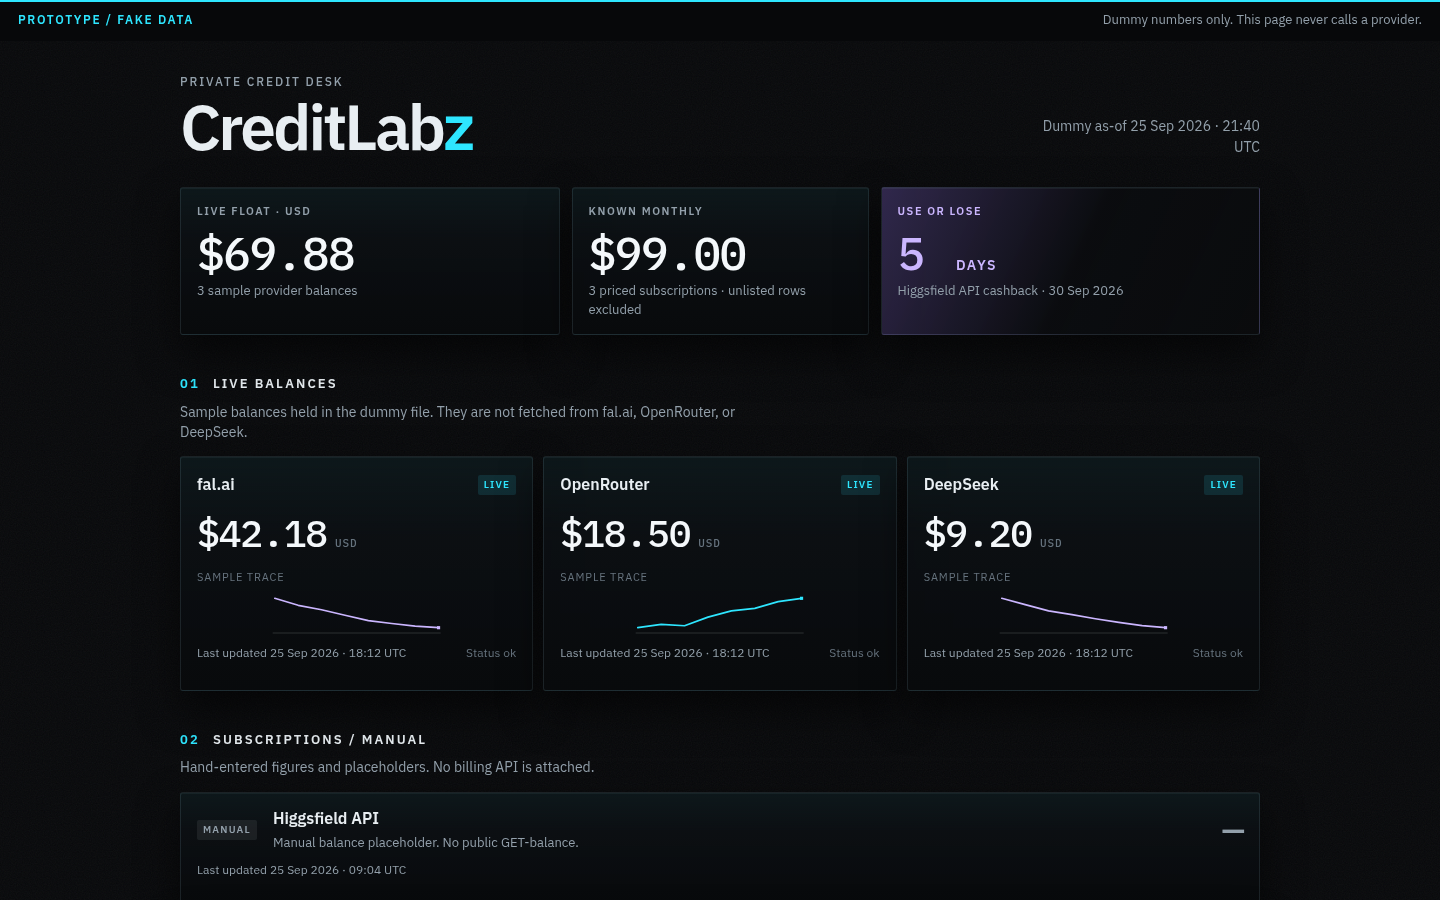
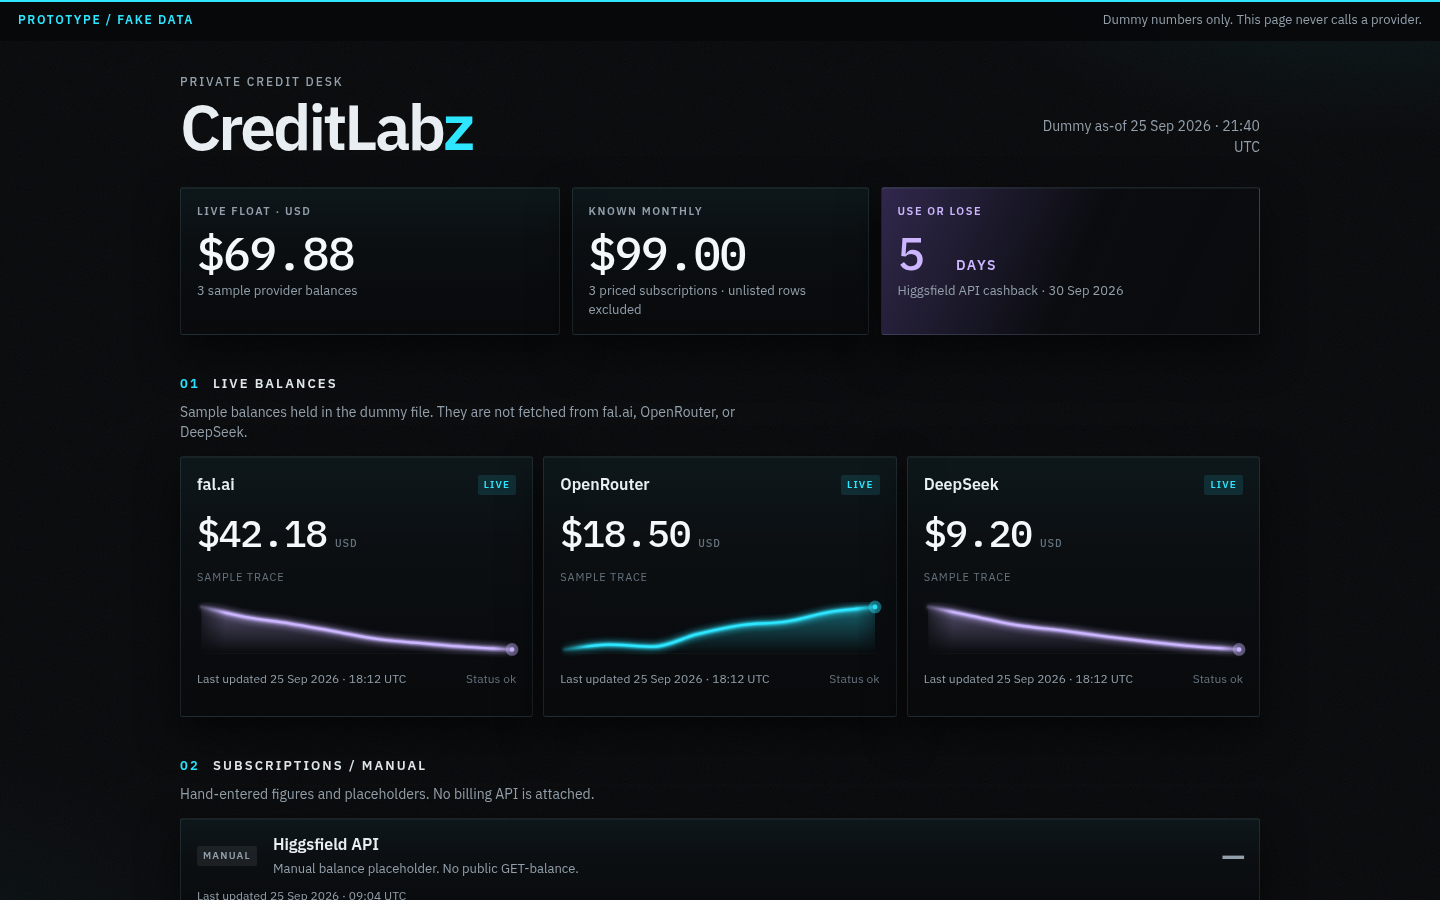
Give sparklines a full-width neon curve.
Replace the flat polyline with a monotone cubic, a soft accent fill, a blurred glow stroke, and an end dot. Up stays cyan and down stays violet, with a unique gradient and filter per card.

Changed region(s): [[0.125, 0.6533, 0.875, 0.7778], [0.125, 0.8089, 0.4062, 1.0], [0.5625, 0.7467, 0.5938, 0.7778]]

diff --git a/js/app.js b/js/app.js
@@ -59,23 +59,78 @@ function countdownBits(days) {
   return { num: String(days), unit: "days" };
 }
 
-function sparkline(values) {
+function smoothLine(points) {
+  const n = points.length;
+  if (n < 2) return "";
+  const fmt = (x, y) => `${x.toFixed(2)} ${y.toFixed(2)}`;
+  if (n === 2) return `M${fmt(points[0][0], points[0][1])} L${fmt(points[1][0], points[1][1])}`;
+
+  const slope = [];
+  const dx = [];
+  for (let i = 0; i < n - 1; i += 1) {
+    const deltaX = points[i + 1][0] - points[i][0] || 1;
+    dx.push(deltaX);
+    slope.push((points[i + 1][1] - points[i][1]) / deltaX);
+  }
+
+  const tangent = new Array(n);
+  tangent[0] = slope[0];
+  tangent[n - 1] = slope[n - 2];
+  for (let i = 1; i < n - 1; i += 1) {
+    tangent[i] = slope[i - 1] * slope[i] <= 0 ? 0 : (slope[i - 1] + slope[i]) / 2;
+  }
+  for (let i = 0; i < n - 1; i += 1) {
+    if (Math.abs(slope[i]) < 1e-6) {
+      tangent[i] = 0;
+      tangent[i + 1] = 0;
+      continue;
+    }
+    const a = tangent[i] / slope[i];
+    const b = tangent[i + 1] / slope[i];
+    const hypot = a * a + b * b;
+    if (hypot > 9) {
+      const scale = 3 / Math.sqrt(hypot);
+      tangent[i] = scale * a * slope[i];
+      tangent[i + 1] = scale * b * slope[i];
+    }
+  }
+
+  let path = `M${fmt(points[0][0], points[0][1])}`;
+  for (let i = 0; i < n - 1; i += 1) {
+    const p0 = points[i];
+    const p1 = points[i + 1];
+    const c1x = p0[0] + dx[i] / 3;
+    const c1y = p0[1] + (tangent[i] * dx[i]) / 3;
+    const c2x = p1[0] - dx[i] / 3;
+    const c2y = p1[1] - (tangent[i + 1] * dx[i]) / 3;
+    path += ` C${fmt(c1x, c1y)} ${fmt(c2x, c2y)} ${fmt(p1[0], p1[1])}`;
+  }
+  return path;
+}
+
+function sparkline(values, id) {
   if (!Array.isArray(values) || values.length < 2) return "";
-  const width = 160;
-  const height = 40;
+  const width = 300;
+  const height = 64;
+  const baselineY = height - 6;
   const min = Math.min(...values);
   const max = Math.max(...values);
   const span = max - min || 1;
+  const plotTop = 14;
+  const plotBottom = baselineY - 4;
   const coords = values.map((value, index) => {
-    const x = (index / (values.length - 1)) * (width - 4) + 2;
-    const y = height - 6 - ((value - min) / span) * (height - 12);
+    const x = (index / (values.length - 1)) * (width - 8) + 4;
+    const y = plotBottom - ((value - min) / span) * (plotBottom - plotTop);
     return [x, y];
   });
-  const path = coords
-    .map((point, index) => `${index === 0 ? "M" : "L"}${point[0].toFixed(2)} ${point[1].toFixed(2)}`)
-    .join(" ");
-  const falling = values[values.length - 1] < values[0];
+  const line = smoothLine(coords);
+  const first = coords[0];
   const last = coords[coords.length - 1];
+  const area = `${line} L${last[0].toFixed(2)} ${baselineY.toFixed(2)} L${first[0].toFixed(2)} ${baselineY.toFixed(2)} Z`;
+  const peakY = Math.min(...coords.map((point) => point[1]));
+  const falling = values[values.length - 1] < values[0];
+  const accent = falling ? "var(--violet)" : "var(--cyan)";
+  const uid = `spark-${String(id || "trace").toLowerCase().replace(/[^a-z0-9]+/g, "-").replace(/^-|-$/g, "") || "trace"}`;
   const trend = falling ? "lower" : "higher or level";
   return `
     <div class="trace">
@@ -84,9 +139,37 @@ function sparkline(values) {
         <span class="sr">Dummy series ends ${trend} than it starts.</span>
       </p>
       <svg class="spark ${falling ? "down" : "up"}" viewBox="0 0 ${width} ${height}" aria-hidden="true" focusable="false">
-        <line class="baseline" x1="0" y1="${height - 1}" x2="${width}" y2="${height - 1}"></line>
-        <path d="${path}"></path>
-        <rect x="${(last[0] - 1.5).toFixed(2)}" y="${(last[1] - 1.5).toFixed(2)}" width="3" height="3"></rect>
+        <defs>
+          <linearGradient id="${uid}-fill" gradientUnits="userSpaceOnUse" x1="0" y1="${peakY.toFixed(2)}" x2="0" y2="${baselineY.toFixed(2)}">
+            <stop offset="0%" stop-color="${accent}" stop-opacity="0.4"></stop>
+            <stop offset="100%" stop-color="${accent}" stop-opacity="0"></stop>
+          </linearGradient>
+          <linearGradient id="${uid}-edge" gradientUnits="userSpaceOnUse" x1="0" y1="0" x2="${width}" y2="0">
+            <stop offset="0%" stop-color="#ffffff" stop-opacity="0.2"></stop>
+            <stop offset="9%" stop-color="#ffffff" stop-opacity="1"></stop>
+            <stop offset="93%" stop-color="#ffffff" stop-opacity="1"></stop>
+            <stop offset="100%" stop-color="#ffffff" stop-opacity="0.45"></stop>
+          </linearGradient>
+          <filter id="${uid}-glow" x="-25%" y="-90%" width="150%" height="280%" color-interpolation-filters="sRGB">
+            <feGaussianBlur in="SourceGraphic" stdDeviation="3.4" result="wide"></feGaussianBlur>
+            <feGaussianBlur in="SourceGraphic" stdDeviation="1.2" result="tight"></feGaussianBlur>
+            <feMerge>
+              <feMergeNode in="wide"></feMergeNode>
+              <feMergeNode in="tight"></feMergeNode>
+            </feMerge>
+          </filter>
+          <mask id="${uid}-mask">
+            <rect width="${width}" height="${height}" fill="url(#${uid}-edge)"></rect>
+          </mask>
+        </defs>
+        <g mask="url(#${uid}-mask)">
+          <line class="baseline" x1="2" y1="${baselineY.toFixed(2)}" x2="${width - 2}" y2="${baselineY.toFixed(2)}"></line>
+          <path class="spark-area" d="${area}" fill="url(#${uid}-fill)"></path>
+          <path class="spark-glow" d="${line}" filter="url(#${uid}-glow)"></path>
+          <path class="spark-line" d="${line}"></path>
+        </g>
+        <circle class="spark-halo" cx="${last[0].toFixed(2)}" cy="${last[1].toFixed(2)}" r="6"></circle>
+        <circle class="spark-dot" cx="${last[0].toFixed(2)}" cy="${last[1].toFixed(2)}" r="2.2"></circle>
       </svg>
     </div>`;
 }
@@ -143,7 +226,7 @@ function renderLive(items) {
     host.innerHTML = '<p class="empty">No dummy live balances.</p>';
     return;
   }
-  host.innerHTML = items.map((item) => `
+  host.innerHTML = items.map((item, index) => `
     <article class="card live-card">
       <div class="card-top">
         <h3 class="service">${esc(item.label)}</h3>
@@ -153,7 +236,7 @@ function renderLive(items) {
         <p class="figure">${esc(formatMoney(item.balance))}</p>
         <span class="currency">${esc(item.currency || "USD")}</span>
       </div>
-      ${sparkline(item.spark)}
+      ${sparkline(item.spark, `${item.id || "trace"}-${index}`)}
       ${updatedLine(item.updated_at, item.status)}
     </article>
   `).join("");

diff --git a/css/styles.css b/css/styles.css
@@ -354,30 +354,45 @@ a.card {
 .spark {
   display: block;
   width: 100%;
-  height: 42px;
+  height: auto;
+  aspect-ratio: 300 / 64;
+  overflow: visible;
 }
 
-.spark path {
+.spark .baseline {
+  stroke: rgba(232, 238, 242, 0.1);
+  stroke-width: 0.5;
+}
+
+.spark-area { stroke: none; }
+
+.spark-glow,
+.spark-line {
   fill: none;
-  stroke-width: 1.6;
   stroke-linejoin: round;
   stroke-linecap: round;
 }
 
-.spark .baseline {
-  stroke: rgba(232, 238, 242, 0.16);
-  stroke-width: 1;
+.spark-glow {
+  stroke-width: 3.6;
+  opacity: 0.95;
 }
 
-.spark rect { stroke: none; }
+.spark-line { stroke-width: 2; }
 
-.spark.up path { stroke: var(--cyan); }
+.spark-halo { opacity: 0.42; }
 
-.spark.up rect { fill: var(--cyan); }
+.spark.up .spark-glow,
+.spark.up .spark-line { stroke: var(--cyan); }
 
-.spark.down path { stroke: var(--violet); }
+.spark.up .spark-dot,
+.spark.up .spark-halo { fill: var(--cyan); }
 
-.spark.down rect { fill: var(--violet); }
+.spark.down .spark-glow,
+.spark.down .spark-line { stroke: var(--violet); }
+
+.spark.down .spark-dot,
+.spark.down .spark-halo { fill: var(--violet); }
 
 .card-foot {
   display: flex;
